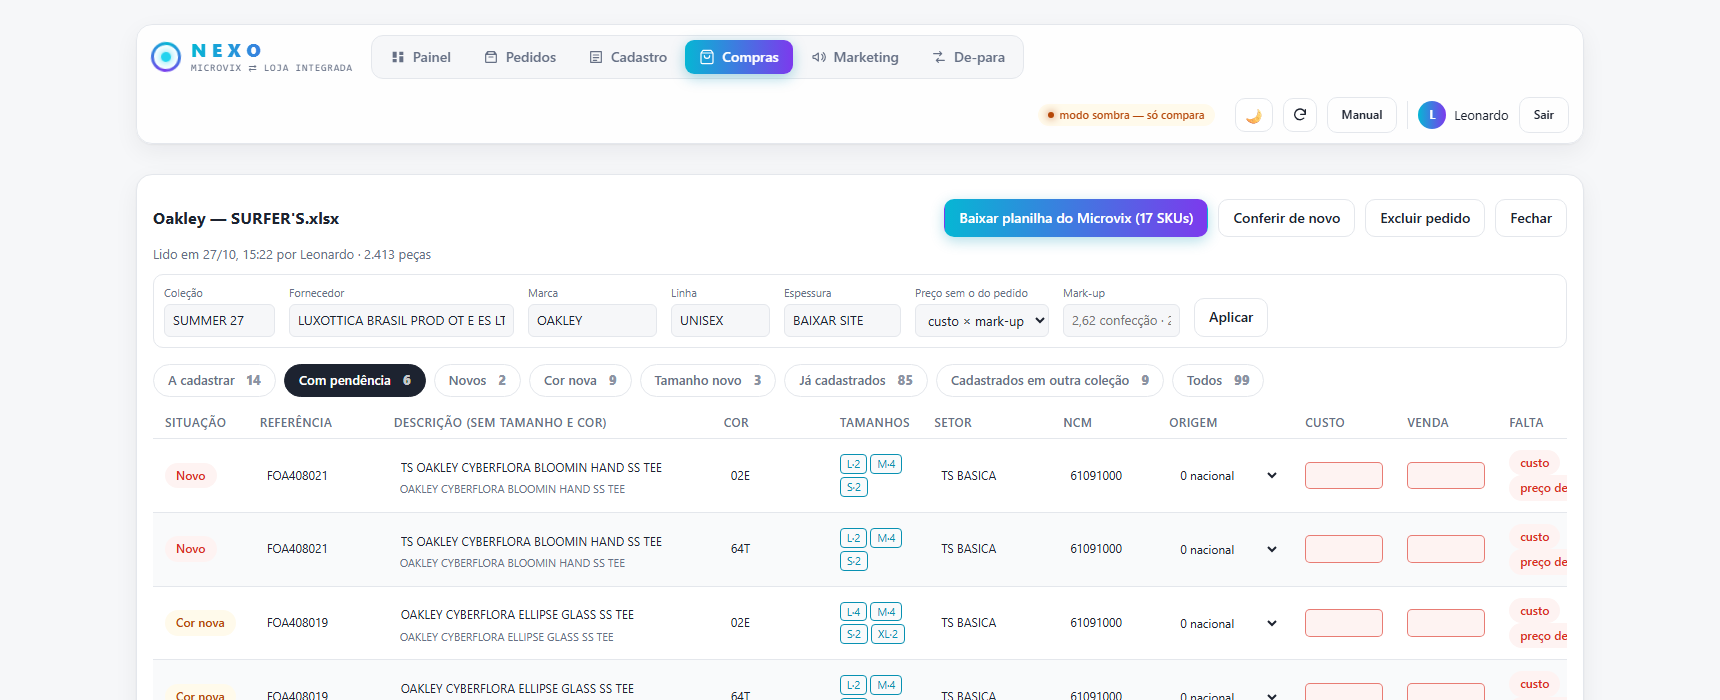
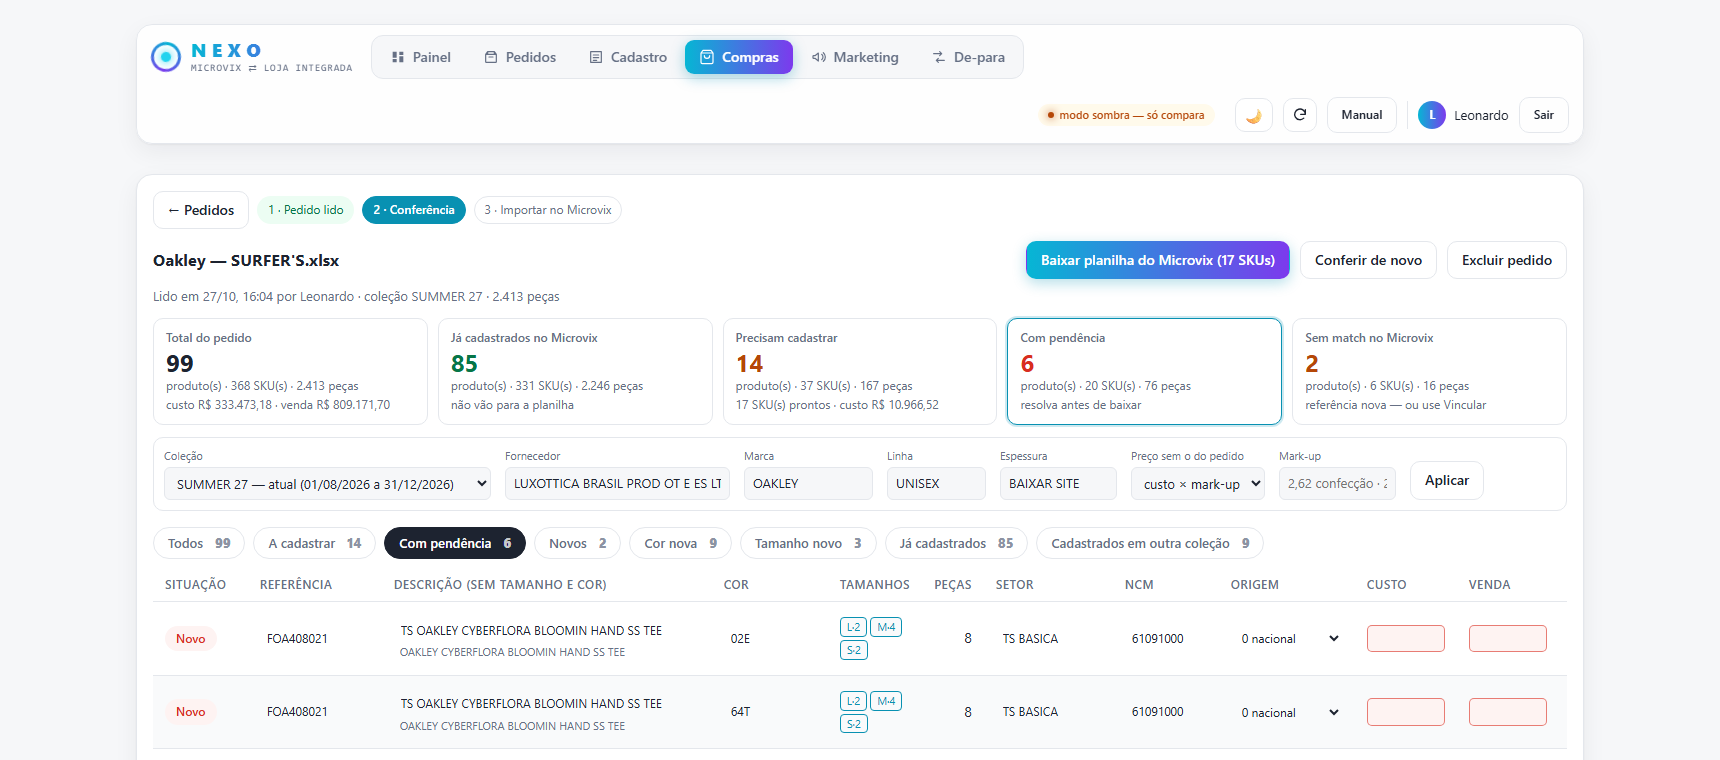
Manual Pedidos de Compra: tela de conferência, Vincular e vários arquivos
Passo 03 vira a tela de conferência (quadros de totais), passo novo 06
para vincular ao produto do Microvix, vários arquivos por pedido e
prints novos. 13 passos.

diff --git a/public/manuais/pedidos-compra.html b/public/manuais/pedidos-compra.html
@@ -288,7 +288,7 @@
       <div><dt>Quem faz</dt><dd>ADM e escritório</dd></div>
       <div><dt>Onde</dt><dd>NEXO &middot; aba Compras<br>Microvix &middot; Importação</dd></div>
       <div><dt>Quando</dt><dd>Pedido fechado com o fornecedor</dd></div>
-      <div><dt>Tamanho</dt><dd>12 passos</dd></div>
+      <div><dt>Tamanho</dt><dd>13 passos</dd></div>
     </dl>
   </header>
 
@@ -296,7 +296,7 @@
     <h2>Antes de começar</h2>
     <p class="h2-nota">Sem isto em mãos, você trava no meio.</p>
     <ul class="antes">
-      <li><span>O <b>pedido do fornecedor</b> do jeito que ele mandou: PDF ou Excel. Não precisa arrumar nada no arquivo.</span></li>
+      <li><span>O <b>pedido do fornecedor</b> do jeito que ele mandou: PDF ou Excel. Não precisa arrumar nada no arquivo. Fornecedor que manda <b>vários arquivos</b> (um por loja, por exemplo): suba todos juntos.</span></li>
       <li><span>A <b>coleção</b> desse pedido, <b>já cadastrada no Microvix</b>. Ela é escolhida antes de subir e vale para o pedido inteiro. Coleção que ainda não existe no Microvix aparece bloqueada na lista: cadastre lá primeiro.</span></li>
       <li><span>Login do gestão de <b>ADM ou escritório</b>. A aba Compras não aparece para outros logins, porque mostra custo e mark-up.</span></li>
       <li><span><b>Vans:</b> se o pedido vier sem a referência VN (só o código global, tipo <span class="mono">V1001100170001</span>), tenha à mão a <b>carteira da Vans</b>. Ela ensina a referência ao NEXO.</span></li>
@@ -352,7 +352,7 @@
         <dl class="campos">
           <div><dt>Fornecedor</dt><dd><em>deixe "reconhecer pelo arquivo"; escolha só se ele não reconhecer</em></dd></div>
           <div><dt>Coleção</dt><dd>a do pedido <em>(a lista mostra a atual e as próximas; a atual já vem escolhida)</em></dd></div>
-          <div><dt>Pedido</dt><dd>o arquivo do fornecedor</dd></div>
+          <div><dt>Pedido</dt><dd>o arquivo do fornecedor <em>(pode escolher vários de uma vez, do mesmo fornecedor: o NEXO junta e soma o mesmo produto)</em></dd></div>
           <div><dt>Carteira da Vans</dt><dd><em>só para Vans sem referência VN</em></dd></div>
           <div><dt>Preço quando o pedido não traz</dt><dd>custo &times; mark-up <em>ou</em> digitar na tela</dd></div>
         </dl>
@@ -364,10 +364,18 @@
     <li class="passo">
       <div class="num">03</div>
       <div>
-        <h3>Confira o total de peças e os avisos</h3>
-        <p>Logo abaixo do nome do pedido aparece <b>"N peças = total do pedido"</b> em verde, ou <b>"li X de Y peças"</b> em vermelho. Em vermelho, ou com algum aviso amarelo, leia antes de seguir.</p>
-        <p>Todo pedido lido fica na lista <b>Pedidos lidos</b>, no fim da aba. Dá para fechar e voltar depois.</p>
-        <figure class="tela"><img src="/manuais/pedidos-compra/historico.png" alt="Lista de pedidos lidos com fornecedor, arquivo, coleção, peças e quantos SKUs faltam cadastrar" loading="lazy"><figcaption>Pedidos lidos</figcaption></figure>
+        <h3>Confira a tela de conferência</h3>
+        <p>Depois de ler, o NEXO abre a <b>Conferência</b> do pedido. Embaixo do nome aparece <b>"N peças = total do pedido"</b> em verde, ou <b>"li X de Y peças"</b> em vermelho. Em vermelho, ou com algum aviso amarelo, leia antes de seguir.</p>
+        <p>Os quadros mostram o resumo; clique num quadro para ver só aqueles produtos.</p>
+        <dl class="campos">
+          <div><dt>Total do pedido</dt><dd><em>produtos, SKUs, peças, custo e venda</em></dd></div>
+          <div><dt>Já cadastrados no Microvix</dt><dd><em>não vão para a planilha</em></dd></div>
+          <div><dt>Precisam cadastrar</dt><dd><em>e quantos SKUs já estão prontos</em></dd></div>
+          <div><dt>Com pendência</dt><dd><em>falta algum dado</em></dd></div>
+          <div><dt>Sem match no Microvix</dt><dd><em>referência nova, ou um produto que existe com outro código (passo 06)</em></dd></div>
+        </dl>
+        <figure class="tela"><img src="/manuais/pedidos-compra/conferencia.png" alt="Tela de conferência da New Balance com 4 arquivos: 478 peças = total do pedido, quadros de total, já cadastrados, precisam cadastrar, com pendência e sem match, e a lista de produtos" loading="lazy"><figcaption>Conferência &middot; New Balance, 4 arquivos</figcaption></figure>
+        <p>O botão <span class="btn">&larr; Pedidos</span> volta para a lista. Todo pedido lido fica em <b>Pedidos lidos</b>: dá para fechar e voltar depois.</p>
       </div>
     </li>
   </ol>
@@ -385,8 +393,7 @@
           <div><dt>Tamanho novo</dt><dd><em>referência e cor existem, falta tamanho</em></dd></div>
           <div><dt>Já cadastrado</dt><dd><em>não vai para a planilha</em></dd></div>
         </dl>
-        <p>Os botões de filtro em cima da tabela separam cada grupo. Comece por <span class="btn">A cadastrar</span>.</p>
-        <figure class="tela"><img src="/manuais/pedidos-compra/pedido.png" alt="Pedido da Oakley aberto: botão Baixar planilha, parâmetros do pedido, filtros e a tabela com situação, referência, descrição, cor, tamanhos, setor, NCM, origem, custo e venda" loading="lazy"><figcaption>Pedido aberto &middot; Oakley</figcaption></figure>
+        <p>Os botões de filtro em cima da tabela separam cada grupo. A tela abre em <span class="btn">Todos</span>.</p>
       </div>
     </li>
 
@@ -398,7 +405,7 @@
         <p>A correção vale para <b>todos os tamanhos</b> do produto. A referência digitada para um código da Vans e a cor digitada para um código de cor do fornecedor ficam guardadas: no próximo pedido, o NEXO já sabe.</p>
         <figure class="tela"><img src="/manuais/pedidos-compra/pendencia.png" alt="Filtro Com pendência: campos de custo e venda vazios em vermelho e a coluna Falta pedindo custo e preço de venda" loading="lazy"><figcaption>Filtro Com pendência</figcaption></figure>
         <div class="aviso">
-          <b>As pendências mais comuns.</b> Vans sem referência VN (suba a carteira ou digite). Oakley com custo zerado no próprio pedido (pergunte ao fornecedor). Hurley e Mizuno sem preço (o manual não tem mark-up delas: digite o mark-up no passo 06 ou o preço).
+          <b>As pendências mais comuns.</b> Vans sem referência VN (suba a carteira, digite ou vincule). Oakley com custo zerado no próprio pedido (pergunte ao fornecedor). Hurley e Mizuno sem preço (o manual não tem mark-up delas: digite o mark-up no passo 07 ou o preço).
         </div>
       </div>
     </li>
@@ -406,8 +413,19 @@
     <li class="passo">
       <div class="num">06</div>
       <div>
+        <h3>Vincule o que já existe com outro código</h3>
+        <p>Às vezes o produto existe no Microvix, mas o fornecedor manda o código de outro jeito. Ex.: o pedido da New Balance traz <span class="mono">U480</span> cor <span class="mono">L7Q5</span>, e no Microvix é <span class="mono">U480L</span> cor <span class="mono">7Q5</span>.</p>
+        <p>Clique em <span class="btn">Vincular</span> na linha. O NEXO já busca pela referência (ou pelo modelo da descrição). Ajuste a busca se precisar, marque <b>todas as marcas</b> se não achar, e clique em <span class="btn">Usar este</span> no produto certo.</p>
+        <p>Referência, cor, descrição, setor, NCM e origem passam a ser os do Microvix. O tamanho que já existe vira "Já cadastrado". <b>O vínculo fica guardado:</b> no próximo pedido, esse código do fornecedor já cai no produto certo.</p>
+        <figure class="tela"><img src="/manuais/pedidos-compra/vincular.png" alt="Painel Vincular a um produto do Microvix: busca por U530 e a lista de referências e cores do Microvix com os tamanhos que existem e o botão Usar este" loading="lazy"><figcaption>Vincular &middot; busca no Microvix</figcaption></figure>
+      </div>
+    </li>
+
+    <li class="passo">
+      <div class="num">07</div>
+      <div>
         <h3>Confira o preço de venda</h3>
-        <p>O preço do pedido, quando vem, é usado como está. Quando não vem, nos <b>parâmetros do pedido</b>:</p>
+        <p>O preço do pedido, quando vem, é usado como está. Quando não vem, nos <b>parâmetros do pedido</b> (a faixa entre os quadros e a tabela):</p>
         <dl class="campos">
           <div><dt>Preço sem o do pedido</dt><dd>custo &times; mark-up <em>ou</em> digitar na tela</dd></div>
           <div><dt>Mark-up</dt><dd><em>vazio = o da marca (</em><a href="/manuais/cadastro-produto#marcas">tabela por marca</a><em>); ou digite, ex.: 2,3</em></dd></div>
@@ -419,7 +437,7 @@
     </li>
 
     <li class="passo">
-      <div class="num">07</div>
+      <div class="num">08</div>
       <div>
         <h3>Tire o que não vai cadastrar agora</h3>
         <p>Marque <b>Fora</b> na última coluna. A linha fica apagada e não vai para a planilha. Desmarque para voltar.</p>
@@ -427,7 +445,7 @@
     </li>
 
     <li class="passo">
-      <div class="num">08</div>
+      <div class="num">09</div>
       <div>
         <h3>Veja os já cadastrados em outra coleção</h3>
         <p>O filtro <span class="btn">Cadastrados em outra coleção</span> mostra o que já existe no Microvix, mas com outra coleção (embaixo de "Já cadastrado" aparece qual). <b>A importação não muda isso.</b> Se for para trocar, troque a coleção no cadastro do produto, no Microvix.</p>
@@ -439,16 +457,16 @@
   <div class="fase"><span class="fase-nome">Parte 3 &middot; Importar no Microvix</span><span class="fase-linha"></span></div>
   <ol class="passos">
     <li class="passo">
-      <div class="num">09</div>
+      <div class="num">10</div>
       <div>
         <h3>Baixe a planilha</h3>
         <p>Clique em <span class="btn">Baixar planilha do Microvix</span>. O número no botão é quantos SKUs (tamanhos) vão. Só entra o que é novo, sem pendência e sem "Fora".</p>
-        <p><b>Não mexa na planilha.</b> Fornecedor, marca e coleção saem em branco de propósito: eles são escolhidos na tela do Microvix, no passo 11.</p>
+        <p><b>Não mexa na planilha.</b> Fornecedor, marca e coleção saem em branco de propósito: eles são escolhidos na tela do Microvix, no passo 12.</p>
       </div>
     </li>
 
     <li class="passo">
-      <div class="num">10</div>
+      <div class="num">11</div>
       <div>
         <h3>Abra a importação de produtos</h3>
         <p class="caminho">Suprimentos &rarr; Estoque &rarr; <b>Importação de Produtos</b> &rarr; <b>Nova importação</b></p>
@@ -457,7 +475,7 @@
     </li>
 
     <li class="passo">
-      <div class="num">11</div>
+      <div class="num">12</div>
       <div>
         <h3>Escolha as opções</h3>
         <p>O quadro no fim do pedido, no NEXO, mostra o fornecedor, a marca e a coleção certos para <b>esse</b> pedido.</p>
@@ -481,7 +499,7 @@
     </li>
 
     <li class="passo">
-      <div class="num">12</div>
+      <div class="num">13</div>
       <div>
         <h3>Confira o resultado</h3>
         <p>Clique em <span class="btn">Próximo</span>. A importação aparece na lista com as contagens:</p>

diff --git a/public/manuais.html b/public/manuais.html
@@ -127,7 +127,7 @@
       </div>
       <span class="seta" aria-hidden="true">&rarr;</span>
       <div class="item-meta">
-        <span>ADM e escritório</span><span>NEXO &middot; Microvix</span><span>12 passos</span><span>Exige login</span>
+        <span>ADM e escritório</span><span>NEXO &middot; Microvix</span><span>13 passos</span><span>Exige login</span>
       </div>
     </a>
     <a class="item" href="/manuais/cadastro-produto">
